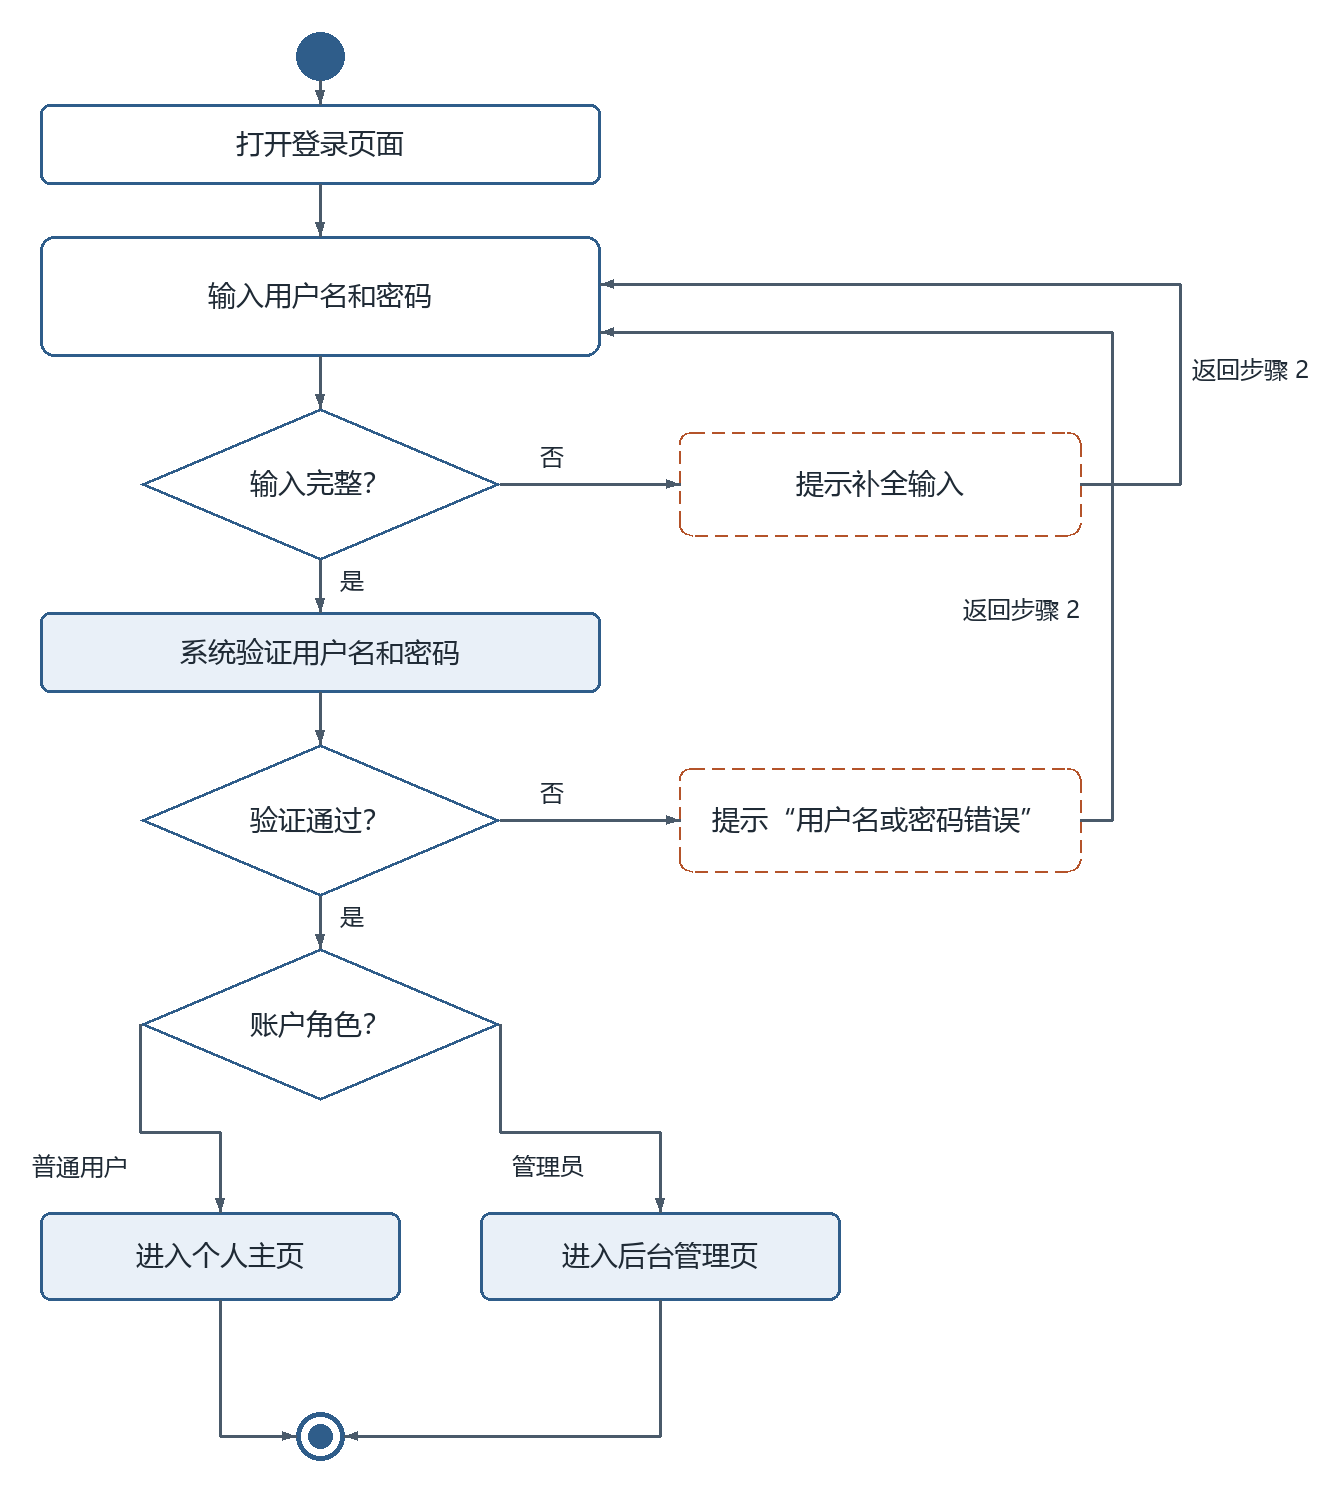
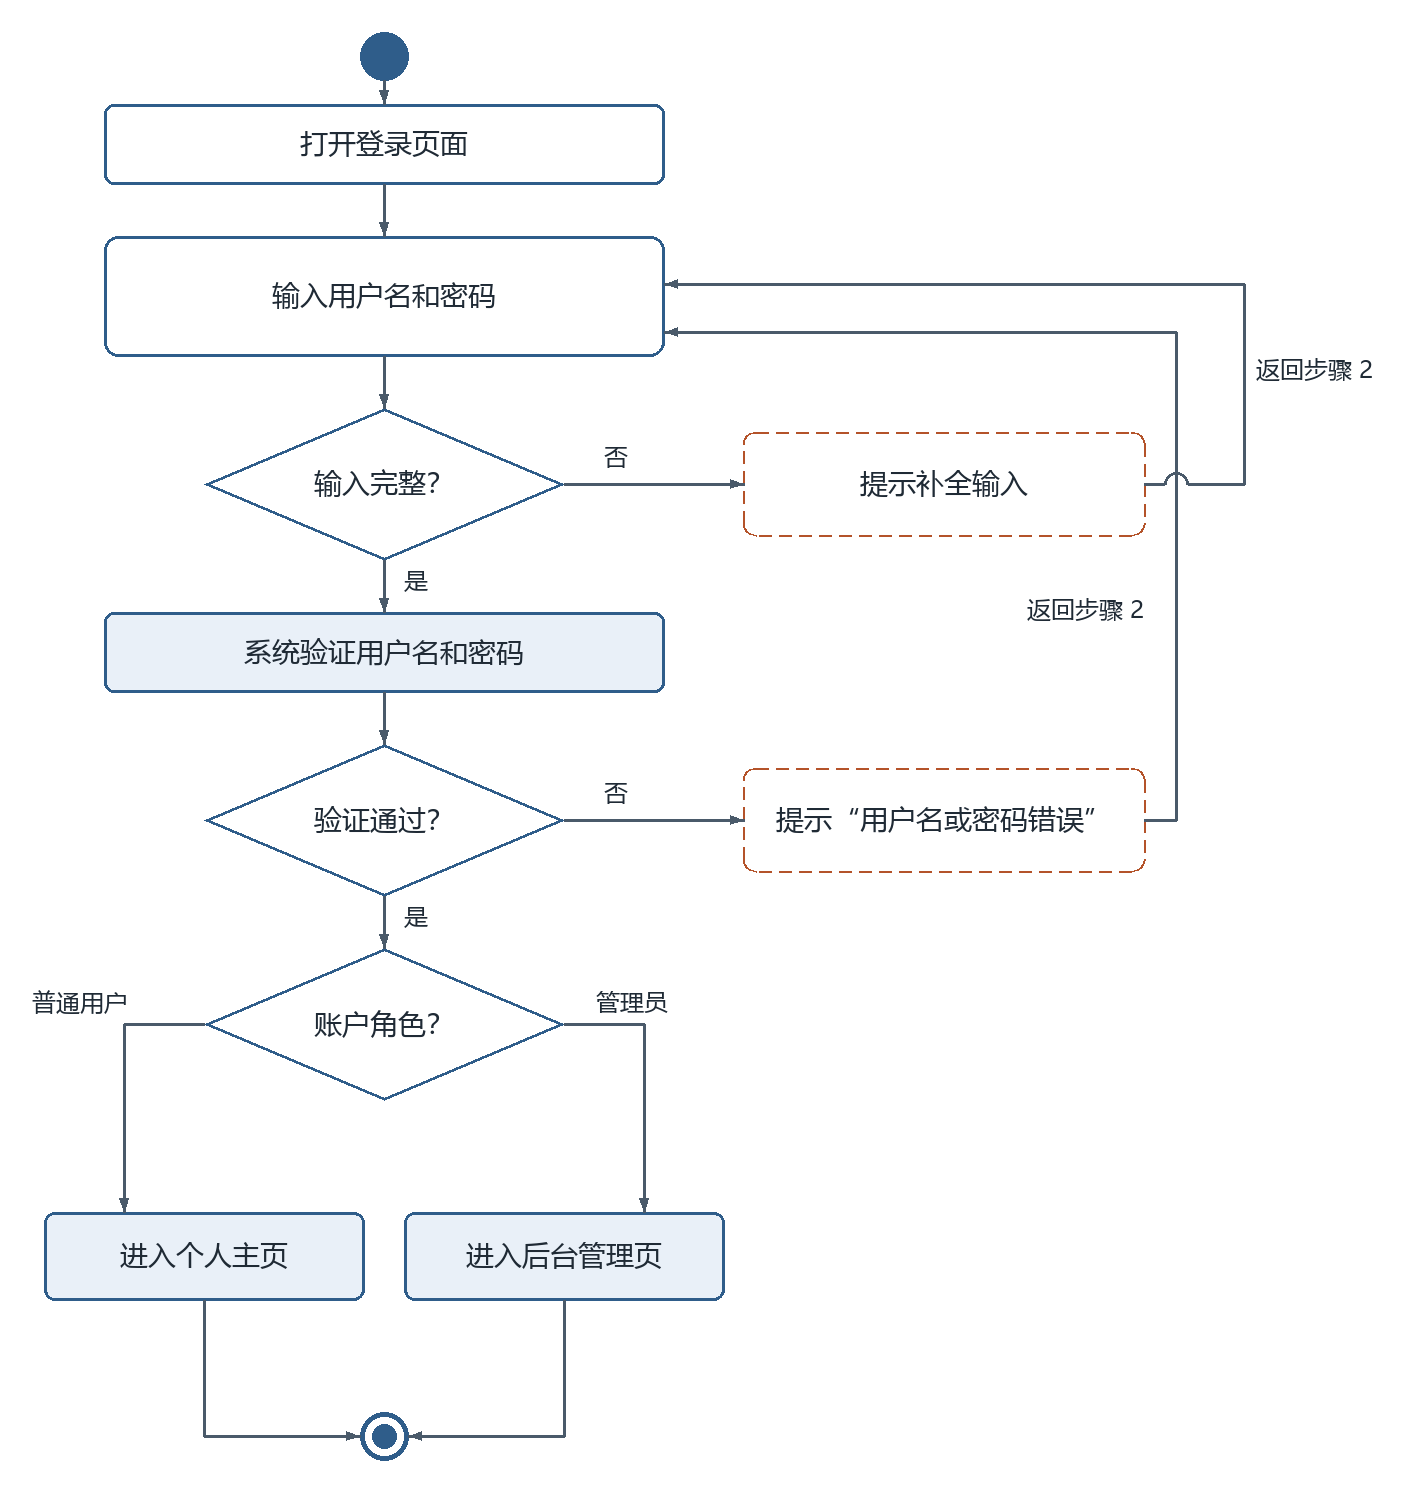
fix(diagrams): 交叉处加跨越符号，登录活动图角色分支改为一次折弯
- figstyle 新增 SEG_JUMP（jumpStyle=arc;jumpSize=6），跨线画小半圆桥
- render_drawio 支持跳跃绘制：交叉处留缺口并在上层线画半圆桥
- 用户注册/登录活动图的三处/一处交叉改用跨越符号
- 用户登录活动图角色分流：先从菱形左右展开、再竖直下指到活动框，去掉两次折弯
- 规范升级 v2.1，README 自查清单与两个用例的图说明同步

diff --git a/docs/交付/1-账户管理-钟标/gen_figures.py b/docs/交付/1-账户管理-钟标/gen_figures.py
@@ -83,8 +83,11 @@ fs.save(OUT / "用户注册_活动图.drawio", [
     fs.poly("b1", [(254, 250), (354, 250)]),
     fs.poly("b2", [(254, 354), (354, 354)]),
     fs.poly("b3", [(254, 528), (354, 528)]),
-    fs.poly("r1", [(504, 250), (604, 250), (604, 146), (304, 146)]),
-    fs.poly("r2", [(504, 354), (572, 354), (572, 166), (304, 166)]),
+    # r1 在上方横穿 r2/r3 两条回程竖线，交叉处画跨越符号；r2 拆成两段，
+    # 只让横穿 r3 的那一段带跨越符号，避免同一个交叉点画两个桥。
+    fs.poly("r1", [(504, 250), (604, 250), (604, 146), (304, 146)], fs.SEG_JUMP),
+    fs.poly("r2a", [(504, 354), (572, 354)], fs.SEG_JUMP),
+    fs.poly("r2b", [(572, 354), (572, 166), (304, 166)]),
     fs.poly("r3", [(504, 528), (540, 528), (540, 186), (304, 186)]),
     # 分支标签：是/否 统一放线的外侧；回路标签贴各自竖线
     fs.label("t_no1", "否", 270, 228, 20),
@@ -99,50 +102,52 @@ fs.save(OUT / "用户注册_活动图.drawio", [
 ], page_w=700, page_h=778)
 
 # ================= 3. 用户登录_活动图 =================
-# 主流程同注册图；两个扩展流程（输入不完整、验证失败）各走一条回程通道。
-# 验证通过后按角色分流为两个动作，两条路径汇合到同一个活动终点。
+# 主流程同注册图；两个扩展流程（输入不完整、验证失败）各走一条回程通道，
+# 上方回程横线与下方回程竖线交叉处画跨越符号。
+# 验证通过后按角色分流：两条线先从菱形左右顶点向两边展开，再各自向下
+# 指到对应的活动框（每个分支只折一次），最后汇合到同一个活动终点。
 fs.save(OUT / "用户登录_活动图.drawio", [
-    fs.vertex("start", "", fs.START, 152, 20, 24, 24),
-    fs.vertex("a1", "打开登录页面", fs.BOX, 24, 56, 280, 40),
-    fs.vertex("a2", "输入用户名和密码", fs.BOX, 24, 122, 280, 60),
-    fs.vertex("d1", "输入完整？", fs.DIAMOND, 74, 208, 180, 76),
-    fs.vertex("e1", "提示补全输入", fs.NOTE, 344, 220, 200, 52),
-    fs.vertex("a3", "系统验证用户名和密码", fs.SYS, 24, 310, 280, 40),
-    fs.vertex("d2", "验证通过？", fs.DIAMOND, 74, 376, 180, 76),
-    fs.vertex("e2", "提示“用户名或密码错误”", fs.NOTE, 344, 388, 200, 52),
-    fs.vertex("d3", "账户角色？", fs.DIAMOND, 74, 478, 180, 76),
-    fs.vertex("a4", "进入个人主页", fs.SYS, 24, 610, 180, 44),
-    fs.vertex("a5", "进入后台管理页", fs.SYS, 244, 610, 180, 44),
-    fs.vertex("end", "", fs.END, 152, 710, 24, 24),
-    fs.vertex("end_dot", "", fs.START, 158, 716, 12, 12),
+    fs.vertex("start", "", fs.START, 192, 20, 24, 24),
+    fs.vertex("a1", "打开登录页面", fs.BOX, 64, 56, 280, 40),
+    fs.vertex("a2", "输入用户名和密码", fs.BOX, 64, 122, 280, 60),
+    fs.vertex("d1", "输入完整？", fs.DIAMOND, 114, 208, 180, 76),
+    fs.vertex("e1", "提示补全输入", fs.NOTE, 384, 220, 200, 52),
+    fs.vertex("a3", "系统验证用户名和密码", fs.SYS, 64, 310, 280, 40),
+    fs.vertex("d2", "验证通过？", fs.DIAMOND, 114, 376, 180, 76),
+    fs.vertex("e2", "提示“用户名或密码错误”", fs.NOTE, 384, 388, 200, 52),
+    fs.vertex("d3", "账户角色？", fs.DIAMOND, 114, 478, 180, 76),
+    fs.vertex("a4", "进入个人主页", fs.SYS, 34, 610, 160, 44),
+    fs.vertex("a5", "进入后台管理页", fs.SYS, 214, 610, 160, 44),
+    fs.vertex("end", "", fs.END, 192, 710, 24, 24),
+    fs.vertex("end_dot", "", fs.START, 198, 716, 12, 12),
 
     # 主流程
-    fs.poly("f1", [(164, 44), (164, 56)]),
-    fs.poly("f2", [(164, 96), (164, 122)]),
-    fs.poly("f3", [(164, 182), (164, 208)]),
-    fs.poly("f4", [(164, 284), (164, 310)]),
-    fs.poly("f5", [(164, 350), (164, 376)]),
-    fs.poly("f6", [(164, 452), (164, 478)]),
+    fs.poly("f1", [(204, 44), (204, 56)]),
+    fs.poly("f2", [(204, 96), (204, 122)]),
+    fs.poly("f3", [(204, 182), (204, 208)]),
+    fs.poly("f4", [(204, 284), (204, 310)]),
+    fs.poly("f5", [(204, 350), (204, 376)]),
+    fs.poly("f6", [(204, 452), (204, 478)]),
     # 扩展流程 2a / 3a
-    fs.poly("b1", [(254, 246), (344, 246)]),
-    fs.poly("b2", [(254, 414), (344, 414)]),
-    fs.poly("r1", [(544, 246), (594, 246), (594, 146), (304, 146)]),
-    fs.poly("r2", [(544, 414), (560, 414), (560, 170), (304, 170)]),
-    # 角色分流：左走"普通用户"，右走"管理员"，汇合到终点
-    fs.poly("s1", [(74, 516), (74, 570), (114, 570), (114, 610)]),
-    fs.poly("s2", [(254, 516), (254, 570), (334, 570), (334, 610)]),
-    fs.poly("s3", [(114, 654), (114, 722), (152, 722)]),
-    fs.poly("s4", [(334, 654), (334, 722), (176, 722)]),
+    fs.poly("b1", [(294, 246), (384, 246)]),
+    fs.poly("b2", [(294, 414), (384, 414)]),
+    fs.poly("r1", [(584, 246), (634, 246), (634, 146), (344, 146)], fs.SEG_JUMP),
+    fs.poly("r2", [(584, 414), (600, 414), (600, 170), (344, 170)]),
+    # 角色分流：从菱形左右顶点先向外展开，再竖向下指到对应活动框
+    fs.poly("s1", [(114, 516), (74, 516), (74, 610)]),
+    fs.poly("s2", [(294, 516), (334, 516), (334, 610)]),
+    fs.poly("s3", [(114, 654), (114, 722), (192, 722)]),
+    fs.poly("s4", [(294, 654), (294, 722), (216, 722)]),
     # 分支标签
-    fs.label("t_no1", "否", 270, 224, 20),
-    fs.label("t_no2", "否", 270, 392, 20),
-    fs.label("t_yes1", "是", 170, 286, 20),
-    fs.label("t_yes2", "是", 170, 454, 20),
-    fs.label("t_role1", "普通用户", 20, 578, 64, align="left"),
-    fs.label("t_role2", "管理员", 260, 578, 60, align="left"),
-    fs.label("t_r1", "返回步骤 2", 600, 180, 90, align="left"),
-    fs.label("t_r2", "返回步骤 2", 458, 300, 90, align="right"),
-], page_w=690, page_h=758)
+    fs.label("t_no1", "否", 310, 224, 20),
+    fs.label("t_no2", "否", 310, 392, 20),
+    fs.label("t_yes1", "是", 210, 286, 20),
+    fs.label("t_yes2", "是", 210, 454, 20),
+    fs.label("t_role1", "普通用户", 24, 496, 56),
+    fs.label("t_role2", "管理员", 300, 496, 56),
+    fs.label("t_r1", "返回步骤 2", 640, 180, 90, align="left"),
+    fs.label("t_r2", "返回步骤 2", 498, 300, 90, align="right"),
+], page_w=730, page_h=758)
 
 # ================= 4. 用户注册_类模型图 =================
 # 三栏类框按内容自适应高度（属性/方法为空时保留一行），不再出现大片空白；

diff --git a/tools/render_drawio.py b/tools/render_drawio.py
@@ -1,7 +1,8 @@
 # -*- coding: utf-8 -*-
 """无 draw.io 桌面版时的应急渲染器：把 .drawio 渲染成 PNG（几何与 draw.io 一致）。
 
-正式流程仍然是 draw.io 命令行导出（见 docs/绘图规范.md 第 6 节）。本脚本只用于
+正式流程仍然是 draw.io 命令行导出（见 docs/绘图规范.md 第 6 节）。
+支持 跳线 样式：带 jumpStyle=arc 的连线在与其它线交叉处留缺口并画小半圆桥。本脚本只用于
 没有安装 draw.io 的机器，保证"脚本 → .drawio → PNG"这条链路在任何机器上都能走通；
 导出后统一跑 tools/postprocess_png.py 裁边。
 
@@ -120,6 +121,60 @@ def wrap_text(text, fnt, max_w):
                 cur = ch
         lines.append(cur)
     return lines
+
+
+def seg_cross_t(p1, p2, p3, p4):
+    """两线段是否真正相交；返回交点在线段 1 上的参数 t（0~1），不相交返回 None。"""
+    x1, y1 = p1
+    x2, y2 = p2
+    x3, y3 = p3
+    x4, y4 = p4
+    d = (x2 - x1) * (y4 - y3) - (y2 - y1) * (x4 - x3)
+    if abs(d) < 1e-9:
+        return None
+    t = ((x3 - x1) * (y4 - y3) - (y3 - y1) * (x4 - x3)) / d
+    u = ((x3 - x1) * (y2 - y1) - (y3 - y1) * (x2 - x1)) / d
+    if 0.02 < t < 0.98 and 0.02 < u < 0.98:
+        return t
+    return None
+
+
+def draw_jump_arc(draw, a, b, t, color, width, r):
+    """在交叉点画跨越半圆：水平段向上拱，竖直段向右拱。"""
+    cx = a[0] + t * (b[0] - a[0])
+    cy = a[1] + t * (b[1] - a[1])
+    box = [cx - r, cy - r, cx + r, cy + r]
+    if abs(b[0] - a[0]) >= abs(b[1] - a[1]):
+        draw.arc(box, 180, 360, fill=color, width=width)   # 上半圆
+    else:
+        draw.arc(box, 270, 90, fill=color, width=width)    # 右半圆
+
+
+def draw_edge(draw, pts, kv, scale, per_seg_gaps=None, r=0):
+    color = kv.get("strokeColor", "#4A5A6A")
+    width = max(2, round(float(kv.get("strokeWidth", 1.5)) * scale))
+    if parse_dashed(kv):
+        dashed_poly(draw, pts, color, width, 6 * scale, 4 * scale)
+        return
+    gaps = per_seg_gaps or [[] for _ in pts[1:]]
+    for (a, b), ts in zip(zip(pts, pts[1:]), gaps):
+        length = math.hypot(b[0] - a[0], b[1] - a[1])
+        if length == 0:
+            continue
+        cur = 0.0
+        for t in sorted(ts):
+            ta = max(0.0, t - r / length)
+            tb = min(1.0, t + r / length)
+            if ta > cur:
+                draw.line([(a[0] + cur * (b[0] - a[0]), a[1] + cur * (b[1] - a[1])),
+                           (a[0] + ta * (b[0] - a[0]), a[1] + ta * (b[1] - a[1]))],
+                          fill=color, width=width)
+            draw_jump_arc(draw, a, b, t, color, width, r)
+            cur = max(cur, tb)
+        if cur < 1.0:
+            draw.line([(a[0] + cur * (b[0] - a[0]), a[1] + cur * (b[1] - a[1])),
+                       (b[0], b[1])], fill=color, width=width)
+    draw_arrow(draw, pts[-2], pts[-1], color, width, kv, scale)
 
 
 def draw_text(draw, text, x, y, w, h, kv, scale, bg=False):
@@ -259,18 +314,29 @@ def render(src, scale=2):
             continue
         draw_vertex(draw, value, kv, x, y, w, h, scale)
 
-    # 2) 连线
-    for kv, sp, tp, way, src_id, dst_id in edges:
-        if sp is None or tp is None:
+    # 2) 连线：普通线先画；带 jumpStyle 的线后画（交叉处留缺口 + 画跨越半圆）
+    edge_data = [(kv, [sp] + way + [tp]) for kv, sp, tp, way, _, _ in edges
+                 if sp is not None and tp is not None]
+    normal_segs = []
+    for kv, pts in edge_data:
+        if not kv.get("jumpStyle"):
+            normal_segs.extend(list(zip(pts, pts[1:])))
+    for kv, pts in edge_data:
+        if not kv.get("jumpStyle"):
+            draw_edge(draw, pts, kv, scale)
+    for kv, pts in edge_data:
+        if not kv.get("jumpStyle"):
             continue
-        pts = [sp] + way + [tp]
-        color = kv.get("strokeColor", "#4A5A6A")
-        width = max(2, round(float(kv.get("strokeWidth", 1.5)) * scale))
-        if parse_dashed(kv):
-            dashed_poly(draw, pts, color, width, 6 * scale, 4 * scale)
-        else:
-            draw.line(pts, fill=color, width=width, joint="curve")
-        draw_arrow(draw, pts[-2], pts[-1], color, width, kv, scale)
+        r = float(kv.get("jumpSize", 6)) * scale
+        per_seg = []
+        for a, b in zip(pts, pts[1:]):
+            ts = []
+            for c, d in normal_segs:
+                t = seg_cross_t(a, b, c, d)
+                if t is not None:
+                    ts.append(t)
+            per_seg.append(ts)
+        draw_edge(draw, pts, kv, scale, per_seg, r)
 
     # 3) 纯文字标签（最后画，白底衬字压住连线）
     for value, kv, x, y, w, h in vertices:

diff --git a/tools/figstyle.py b/tools/figstyle.py
@@ -9,7 +9,7 @@
     sys.path.insert(0, str(ROOT / "tools"))
     import figstyle as fs
 
-坐标约定：画布四周留 24px 白边；单张图内容宽度不超过 760px——正文 14px 时，
+坐标约定：画布四周留 24px 白边；两线交叉用 SEG_JUMP（jumpStyle=arc）画跨越符号；单张图内容宽度不超过 760px——正文 14px 时，
 插入 Word 满宽 15.5cm 后等效字号仍不小于 8pt（详见 docs/绘图规范.md 第 3 节）。
 
 改图流程：改脚本 → 重新生成 .drawio → 导出 PNG → 目检。导出方式见
@@ -81,6 +81,8 @@ SEG_OPEN = (f"html=1;rounded=0;strokeColor={EDGE};strokeWidth=1.5;startArrow=non
             f"endArrow=open;endFill=0;endSize=9;")
 SEG_NONE = (f"html=1;rounded=0;strokeColor={EDGE};strokeWidth=1.5;"
             f"startArrow=none;endArrow=none;")
+# 与其它线交叉时画跨越符号（小半圆桥），避免"裸交叉"看起来像连在一起
+SEG_JUMP = SEG + "jumpStyle=arc;jumpSize=6;"
 
 
 def esc(s):

diff --git a/docs/交付/1-账户管理-钟标/用户注册.md b/docs/交付/1-账户管理-钟标/用户注册.md
@@ -37,7 +37,7 @@
 
 ![用户注册_活动图](images/用户注册_活动图.png)
 
-**图说明**：主流程自上而下：打开注册页面 → 输入用户名、密码、确认密码、邮箱 → 校验输入 → 系统检查用户名是否已被注册 → 创建新账户 → 提示注册成功并跳转登录页面 → 结束。三个扩展流程各画成一个菱形分支，与用例描述一一对应：判断"信息是否完整？"为否时进入虚线框"提示补全输入"（扩展流程 2b）；判断"两次密码是否一致？"为否时提示"密码不一致"（扩展流程 2a）；系统检查用户名后判断"用户名已存在？"为是时提示"用户名已被占用"（扩展流程 3a）。三条错误分支处理后都拐回步骤 2"输入用户名、密码、确认密码、邮箱"，形成回路，对应用例描述中三处"返回步骤 2"；三条回程线各走一条独立的竖直通道，互不穿越，也避开所有矩形框。判断"用户名已存在？"为否（用户名可用）才进入"创建新账户"，即基本流程第 4 步。
+**图说明**：主流程自上而下：打开注册页面 → 输入用户名、密码、确认密码、邮箱 → 校验输入 → 系统检查用户名是否已被注册 → 创建新账户 → 提示注册成功并跳转登录页面 → 结束。三个扩展流程各画成一个菱形分支，与用例描述一一对应：判断"信息是否完整？"为否时进入虚线框"提示补全输入"（扩展流程 2b）；判断"两次密码是否一致？"为否时提示"密码不一致"（扩展流程 2a）；系统检查用户名后判断"用户名已存在？"为是时提示"用户名已被占用"（扩展流程 3a）。三条错误分支处理后都拐回步骤 2"输入用户名、密码、确认密码、邮箱"，形成回路，对应用例描述中三处"返回步骤 2"；三条回程线各走一条独立的竖直通道并避开所有矩形框；回程线与其它回程线交叉处画小半圆桥（跨越符号），表示两线并不相连。判断"用户名已存在？"为否（用户名可用）才进入"创建新账户"，即基本流程第 4 步。
 
 ## 二、逻辑分析与建模
 
@@ -58,7 +58,7 @@
 ## 提交前自查（本用例）
 
 - [x] 用例描述六段式齐全，与 `docs/需求分析/02_用例描述初稿.md` 用例 1 口径一致（仅"访客/普通用户"的图例表示已加说明）
-- [x] 活动图 1 张，三个扩展流程 2a、2b、3a 全部画成分支，错误分支均拐回步骤 2 形成回路
+- [x] 活动图 1 张，三个扩展流程 2a、2b、3a 全部画成分支，错误分支均拐回步骤 2 形成回路；回程线交叉处有跨越符号
 - [x] 用例图与"用户登录"共用同一张（账户管理模块用例图），7 张图由同一脚本按 v2 规范生成
 - [x] 类模型图为三栏式矩形拼接（类名/属性/方法，无灰色分隔线），关联带箭头与多重性，同一关联线上的文字统一在线的同侧
 - [x] 协作图对象框内不带冒号；消息按执行顺序编号（1～8）且与基本流程对应；双向消息画成两条平行带箭头线，编号标签紧贴所属线段

diff --git a/docs/交付/1-账户管理-钟标/用户登录.md b/docs/交付/1-账户管理-钟标/用户登录.md
@@ -32,7 +32,7 @@
 
 ![用户登录_活动图](images/用户登录_活动图.png)
 
-**图说明**：主流程自上而下：打开登录页面 → 输入用户名和密码 → 校验输入 → 验证账户 → 按角色跳转 → 结束。两个扩展流程画成判断分支："输入完整？"为否时进入虚线框"提示补全输入"，随后回路拐回"输入用户名和密码"；"验证通过？"为否时提示"用户名或密码错误"，同样返回重新输入。验证通过后由"账户角色？"判断分流：普通用户进入个人主页，管理员进入后台管理页，两条路径汇合后结束。用三个菱形分别对应用例描述中的扩展流程 2a、3a 和基本流程第 4 步的角色分流。
+**图说明**：主流程自上而下：打开登录页面 → 输入用户名和密码 → 校验输入 → 验证账户 → 按角色跳转 → 结束。两个扩展流程画成判断分支："输入完整？"为否时进入虚线框"提示补全输入"，随后回路拐回"输入用户名和密码"；"验证通过？"为否时提示"用户名或密码错误"，同样返回重新输入。验证通过后由"账户角色？"判断分流：两条分支先从判断菱形的左右顶点向两边展开、再竖直向下分别指向"进入个人主页"和"进入后台管理页"，两条路径汇合后结束；回程线与另一条回程线的交叉处画小半圆桥（跨越符号）。用三个菱形分别对应用例描述中的扩展流程 2a、3a 和基本流程第 4 步的角色分流。
 
 ## 二、逻辑分析与建模
 
@@ -53,7 +53,7 @@
 ## 提交前自查（本用例）
 
 - [x] 用例描述六段式齐全，与 02 初稿口径一致
-- [x] 活动图覆盖扩展流程 2a、3a，错误分支均形成回路
+- [x] 活动图覆盖扩展流程 2a、3a，错误分支均形成回路；回程线交叉处有跨越符号，角色分流分支只折一次
 - [x] 类模型图为三栏式矩形拼接（类名/属性/方法，无灰色分隔线），关联带箭头与多重性，同一关联线上的文字统一在线的同侧
 - [x] 协作图对象框内不带冒号；消息按执行顺序编号（1–6）且与基本流程对应；双向消息画成两条平行带箭头线，编号标签紧贴所属线段
 - [x] 视觉符合 v2：分类色板、正文 14px（满宽插入 Word 后等效字号 ≥ 8pt）、同类图元尺寸一致、四周边距一致

diff --git a/docs/交付/README.md b/docs/交付/README.md
@@ -91,10 +91,11 @@ docs/交付/
 - [ ] 每个用例：活动图 1 张；每个模块：用例图 1 张；每个用例：类模型图 + 协作图各 1 张
 - [ ] 活动图覆盖全部扩展流程，错误分支画成回路（拐回对应步骤）
 - [ ] 活动图"是/否"标签与 md 文字描述一致（例如"名称为空？"为"是"才提示错误），不出现图文矛盾
+- [ ] 活动图角色/条件分流的分支先从菱形左右展开、再向下指向对应动作框，不绕两次弯
 - [ ] 协作图消息按执行顺序编号，与用例基本流程一一对应
 - [ ] 协作图对象框内不写冒号；双向消息画成两条平行线、各自带箭头，编号标签紧贴所属线段
 - [ ] 类模型图类框为三栏矩形拼接（类名/属性/方法，不用灰色分隔线）；同一关联线的关联名与两端多重性统一放在线的同一侧（水平线在上方、垂直线在侧方）
-- [ ] 视觉符合 v2：色值不超过规范第 2.1 节 7 个；正文 ≥ 8pt；内容宽不超上限；同类图元尺寸一致；四周边距一致
+- [ ] 视觉符合 v2：色值不超过规范第 2.1 节 7 个；正文 ≥ 8pt；内容宽不超上限；同类图元尺寸一致；四周边距一致；两线交叉处有跨越符号
 - [ ] 每幅图后面有文字说明（画了什么 + 为什么这样设计），不允许只贴图
 - [ ] PNG 已逐张目检：无穿框、无压字、文字完整、无贴边
 - [ ] `.drawio` 源文件已一并提交，PNG 可由脚本重新生成
